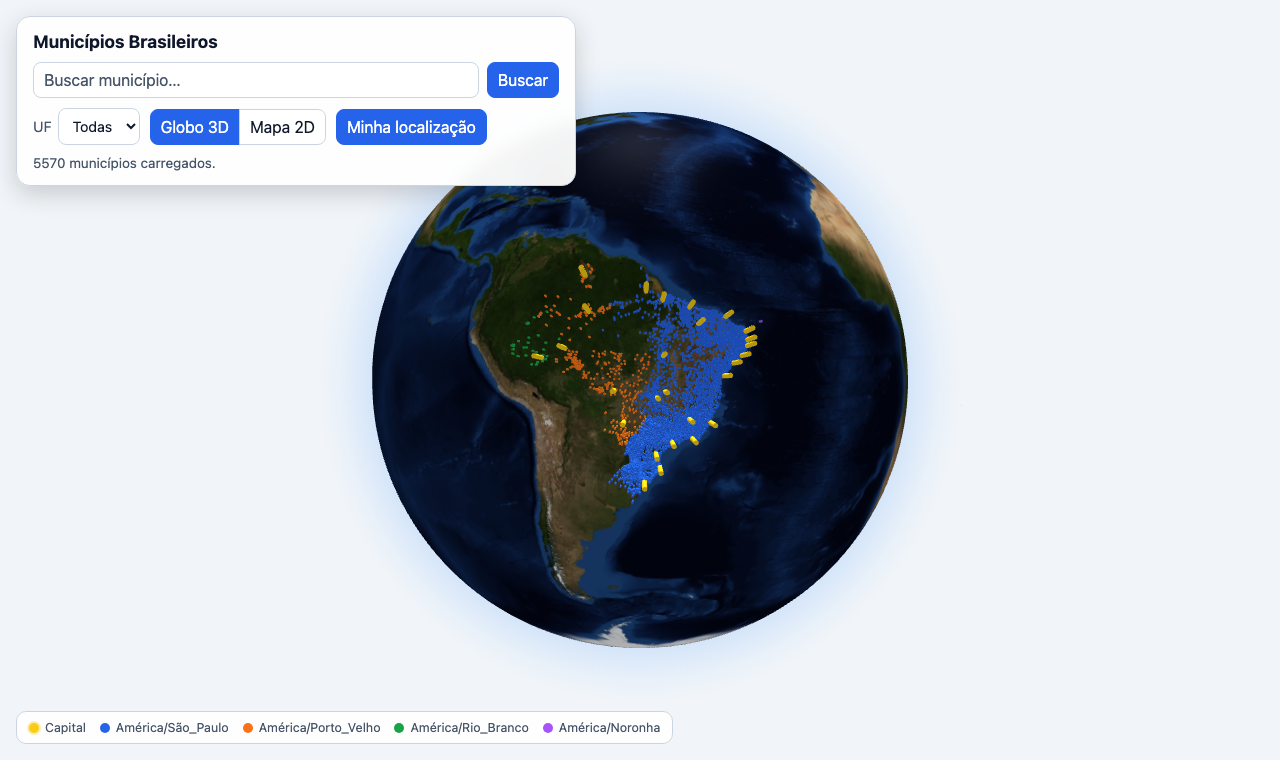
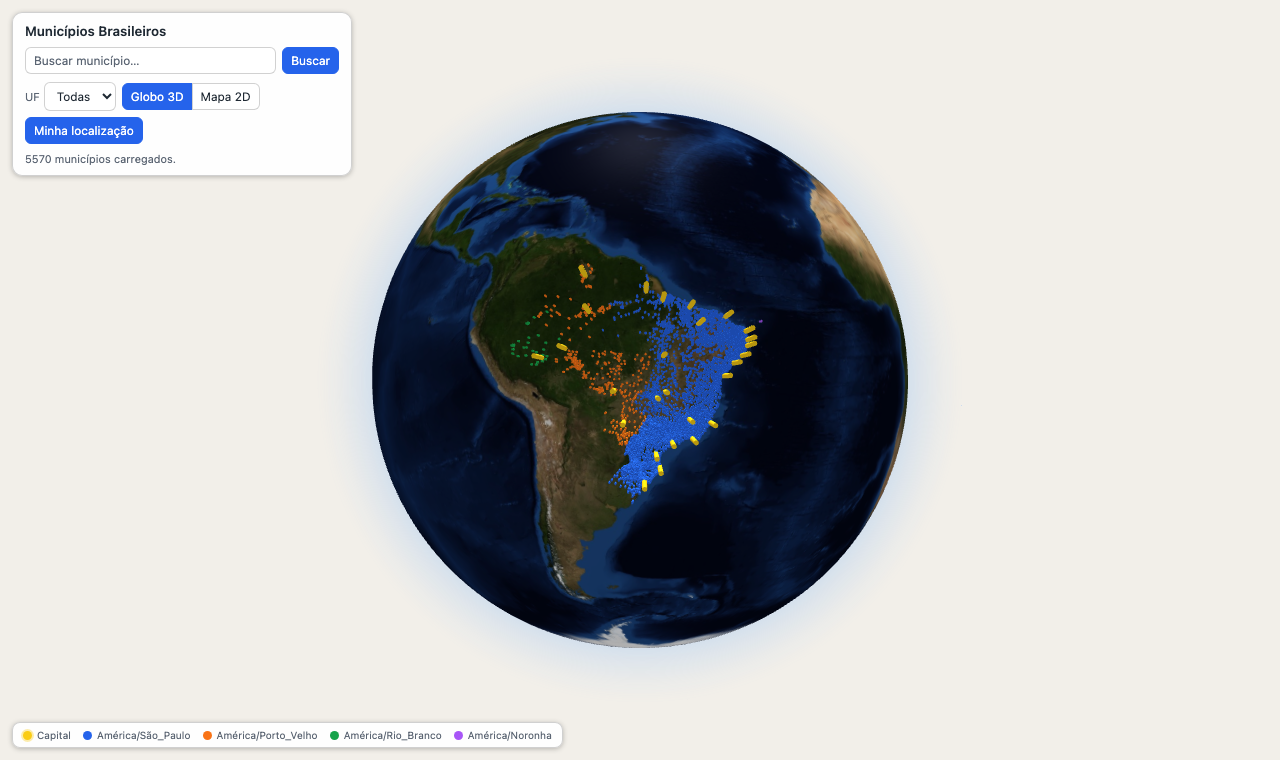
Make explorer panels compact and match the map style
- Use a single light theme that matches OpenStreetMap tiles and Leaflet controls
- Shrink the search panel, info card and legend
- Regenerate README screenshots with the new layout

Changed region(s): [[0.0, 0.0, 0.4688, 0.2724], [0.0, 0.9382, 0.5312, 0.9987]]

diff --git a/web/style.css b/web/style.css
@@ -1,38 +1,15 @@
-/* Design tokens: light theme by default, dark theme when the OS asks for it. */
+/* Single light theme that matches the OpenStreetMap tiles and the Leaflet controls. */
 :root {
-    --bg: #f1f5f9;
+    --bg: #f2efe9;
+    --panel: rgba(255, 255, 255, 0.94);
     --input-bg: #ffffff;
-    --panel: rgba(255, 255, 255, 0.95);
-    --text: #0f172a;
-    --muted: #475569;
-    --border: #cbd5e1;
+    --text: #1f2933;
+    --muted: #5b6573;
+    --border: rgba(0, 0, 0, 0.18);
     --accent: #2563eb;
     --accent-text: #ffffff;
     --focus: #f59e0b;
-}
-
-@media (prefers-color-scheme: dark) {
-    :root:not([data-theme="light"]) {
-        --bg: #0b1220;
-        --input-bg: #0f172a;
-        --panel: rgba(15, 23, 42, 0.92);
-        --text: #e2e8f0;
-        --muted: #94a3b8;
-        --border: #334155;
-        --accent: #3b82f6;
-        --accent-text: #ffffff;
-    }
-}
-
-:root[data-theme="dark"] {
-    --bg: #0b1220;
-    --input-bg: #0f172a;
-    --panel: rgba(15, 23, 42, 0.92);
-    --text: #e2e8f0;
-    --muted: #94a3b8;
-    --border: #334155;
-    --accent: #3b82f6;
-    --accent-text: #ffffff;
+    --shadow: 0 1px 5px rgba(0, 0, 0, 0.25);
 }
 
 * {
@@ -46,6 +23,7 @@ body {
     background: var(--bg);
     color: var(--text);
     font-family: system-ui, -apple-system, "Segoe UI", Roboto, sans-serif;
+    font-size: 14px;
 }
 
 .app {
@@ -55,11 +33,11 @@ body {
     overflow: hidden;
 }
 
+/* Each view is its own stacking context, so Leaflet panes stay under the floating panels. */
 .view {
     position: absolute;
     inset: 0;
     z-index: 0;
-    /* Keep Leaflet panes inside the map, below the floating toolbar. */
     isolation: isolate;
 }
 
@@ -67,30 +45,29 @@ body {
     display: none !important;
 }
 
-/* Toolbar floats over the views. */
+/* Compact floating panel, styled like the Leaflet controls. */
 .toolbar {
     position: absolute;
     z-index: 10;
-    top: 16px;
-    left: 16px;
-    right: 16px;
-    max-width: 560px;
-    padding: 14px 16px;
-    border-radius: 14px;
+    top: 12px;
+    left: 12px;
+    width: min(340px, calc(100% - 24px));
+    padding: 10px 12px;
+    border-radius: 10px;
     background: var(--panel);
     border: 1px solid var(--border);
-    box-shadow: 0 8px 24px rgba(0, 0, 0, 0.18);
-    backdrop-filter: blur(8px);
+    box-shadow: var(--shadow);
 }
 
 .toolbar h1 {
-    margin: 0 0 10px;
-    font-size: 1.1rem;
+    margin: 0 0 8px;
+    font-size: 0.95rem;
+    font-weight: 600;
 }
 
 .search {
     display: flex;
-    gap: 8px;
+    gap: 6px;
 }
 
 .search input {
@@ -102,21 +79,21 @@ input,
 select,
 button {
     font: inherit;
-    border-radius: 8px;
+    font-size: 0.85rem;
+    border-radius: 6px;
     border: 1px solid var(--border);
-    padding: 8px 10px;
+    padding: 5px 8px;
     background: var(--input-bg);
     color: var(--text);
 }
 
-button {
-    cursor: pointer;
-}
-
-/* Placeholder must stay readable in both themes. */
 input::placeholder {
     color: var(--muted);
     opacity: 1;
+}
+
+button {
+    cursor: pointer;
 }
 
 button.primary,
@@ -137,15 +114,15 @@ select:focus-visible {
     display: flex;
     flex-wrap: wrap;
     align-items: center;
-    gap: 10px;
-    margin-top: 10px;
+    gap: 6px;
+    margin-top: 8px;
 }
 
 .controls label {
     display: flex;
     align-items: center;
-    gap: 6px;
-    font-size: 0.9rem;
+    gap: 4px;
+    font-size: 0.8rem;
     color: var(--muted);
 }
 
@@ -158,11 +135,11 @@ select:focus-visible {
 }
 
 .segmented button:first-child {
-    border-radius: 8px 0 0 8px;
+    border-radius: 6px 0 0 6px;
 }
 
 .segmented button:last-child {
-    border-radius: 0 8px 8px 0;
+    border-radius: 0 6px 6px 0;
     margin-left: -1px;
 }
 
@@ -173,38 +150,39 @@ select:focus-visible {
 }
 
 .status {
-    margin: 10px 0 0;
-    font-size: 0.85rem;
+    margin: 8px 0 0;
+    font-size: 0.78rem;
     color: var(--muted);
-    min-height: 1.2em;
+    min-height: 1em;
 }
 
-/* Info card for the selected municipality. */
+/* Info card for the selected municipality, bottom right. */
 .info {
     position: absolute;
     z-index: 10;
-    right: 16px;
-    bottom: 64px;
-    width: min(320px, calc(100% - 32px));
-    padding: 16px;
-    border-radius: 14px;
+    right: 12px;
+    bottom: 40px;
+    width: min(280px, calc(100% - 24px));
+    padding: 12px 14px;
+    border-radius: 10px;
     background: var(--panel);
     border: 1px solid var(--border);
-    box-shadow: 0 8px 24px rgba(0, 0, 0, 0.18);
+    box-shadow: var(--shadow);
 }
 
 .info h2 {
-    margin: 0 0 10px;
-    font-size: 1.05rem;
-    padding-right: 24px;
+    margin: 0 0 8px;
+    font-size: 0.95rem;
+    font-weight: 600;
+    padding-right: 20px;
 }
 
 .info dl {
     display: grid;
     grid-template-columns: auto 1fr;
-    gap: 4px 12px;
+    gap: 3px 10px;
     margin: 0;
-    font-size: 0.9rem;
+    font-size: 0.8rem;
 }
 
 .info dt {
@@ -217,39 +195,41 @@ select:focus-visible {
 
 .info .close {
     position: absolute;
-    top: 8px;
-    right: 8px;
-    padding: 2px 8px;
-    line-height: 1;
+    top: 6px;
+    right: 6px;
+    padding: 0 6px;
+    line-height: 1.4;
+    font-size: 1rem;
 }
 
-/* Colour legend at the bottom. */
+/* Colour legend at the bottom left. */
 .legend {
     position: absolute;
     z-index: 10;
-    left: 16px;
-    bottom: 16px;
+    left: 12px;
+    bottom: 12px;
     display: flex;
     flex-wrap: wrap;
-    gap: 6px 14px;
-    padding: 8px 12px;
-    border-radius: 10px;
+    gap: 4px 12px;
+    padding: 6px 10px;
+    border-radius: 8px;
     background: var(--panel);
     border: 1px solid var(--border);
-    font-size: 0.78rem;
+    box-shadow: var(--shadow);
+    font-size: 0.72rem;
     color: var(--muted);
 }
 
 .legend span {
     display: inline-flex;
     align-items: center;
-    gap: 6px;
+    gap: 5px;
 }
 
 .dot {
     display: inline-block;
-    width: 10px;
-    height: 10px;
+    width: 9px;
+    height: 9px;
     border-radius: 50%;
 }
 
@@ -258,31 +238,24 @@ select:focus-visible {
     box-shadow: 0 0 0 2px rgba(250, 204, 21, 0.35);
 }
 
-/* Leaflet container inherits the page background. */
-#map {
-    background: var(--bg);
-}
-
-/* Phone layout: 16px gutters, stacked controls, no horizontal scroll. */
+/* Phone layout: 8px gutters, no horizontal scroll. */
 @media (max-width: 600px) {
     .toolbar {
-        left: 8px;
-        right: 8px;
         top: 8px;
-        padding: 12px;
+        left: 8px;
+        width: calc(100% - 16px);
     }
 
     .info {
-        left: 8px;
         right: 8px;
-        bottom: 56px;
-        width: auto;
+        bottom: 36px;
+        width: calc(100% - 16px);
     }
 
     .legend {
         left: 8px;
         right: 8px;
         bottom: 8px;
-        font-size: 0.72rem;
+        font-size: 0.68rem;
     }
 }
